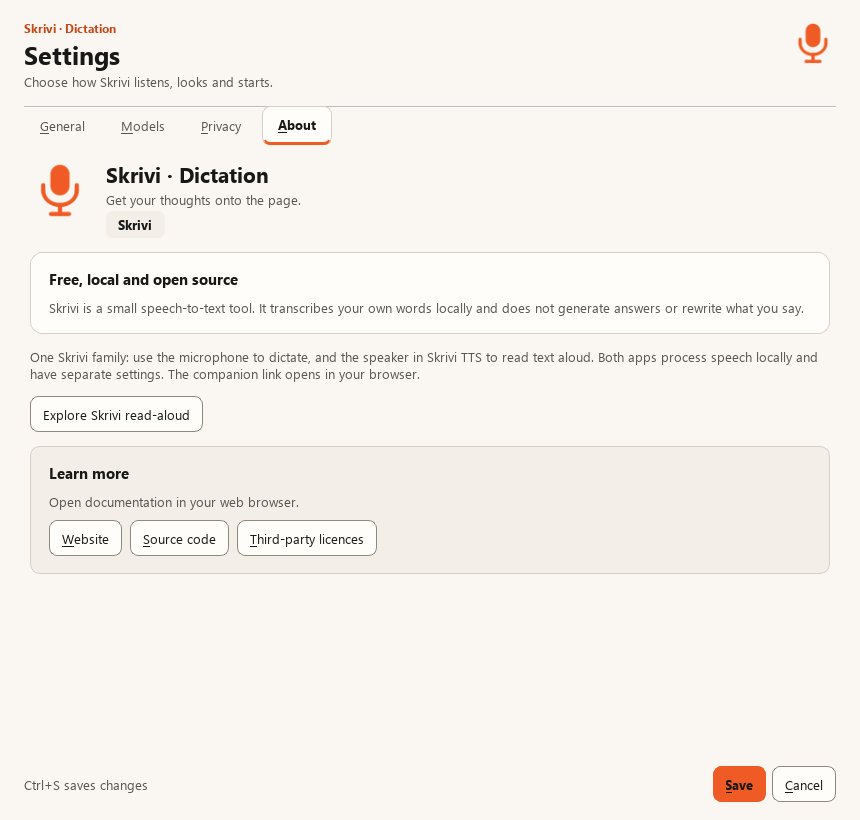
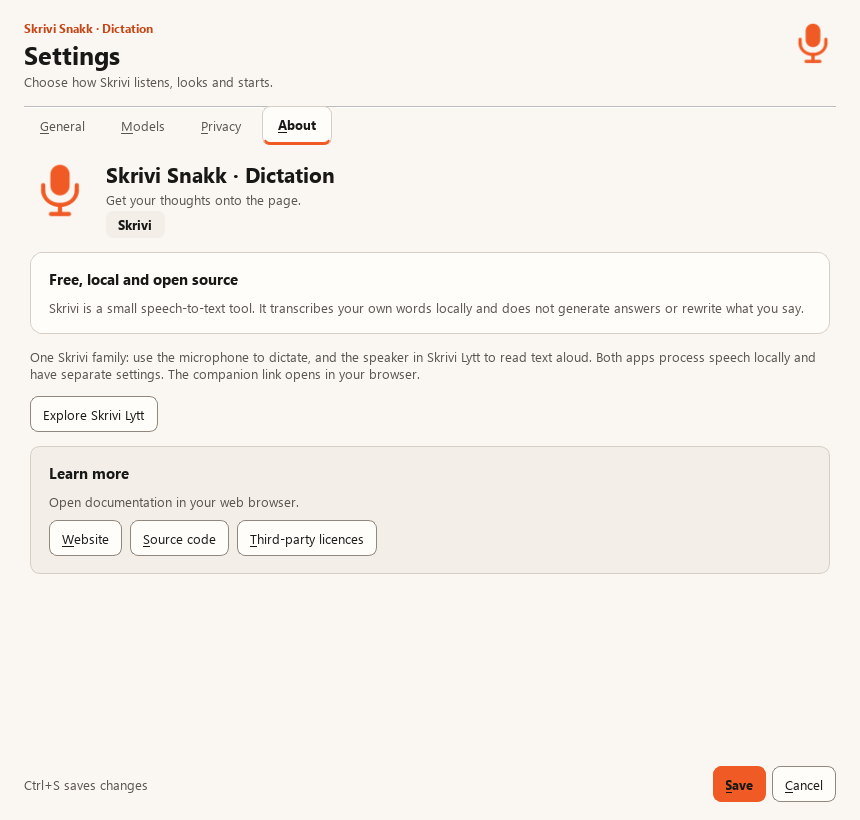
Use current Snakk and Lytt family names

diff --git a/website/dictation/index.html b/website/dictation/index.html
@@ -27,7 +27,7 @@
       <div class="eyebrow" data-nb="Skrivi Snakk · tale-til-tekst" data-en="Skrivi Snakk · speech-to-text">Skrivi Snakk · tale-til-tekst</div>
       <h1 data-nb="Få tankene ned på siden." data-en="Get your thoughts onto the page.">Få tankene ned på siden.</h1>
       <p class="hero-copy" data-nb="Nøyaktig, lokal tale-til-tekst. Gratis for alle." data-en="Accurate, local speech-to-text. Free for everyone.">Nøyaktig, lokal tale-til-tekst. Gratis for alle.</p>
-      <p class="product-note" data-nb="Mikrofonen for å skrive, høyttaleren for å lytte. Bruk høyre Ctrl eller venstre Ctrl + Windows til diktering når du også bruker Skrivi Opplesing." data-en="The microphone for writing, the speaker for listening. Use Right Ctrl or Left Ctrl + Windows for dictation when also using Skrivi Read aloud.">Mikrofonen for å skrive, høyttaleren for å lytte. Bruk høyre Ctrl eller venstre Ctrl + Windows til diktering når du også bruker Skrivi Opplesing.</p>
+      <p class="product-note" data-nb="Mikrofonen for å skrive, høyttaleren for å lytte. Bruk høyre Ctrl eller venstre Ctrl + Windows til diktering når du også bruker Skrivi Lytt." data-en="The microphone for writing, the speaker for listening. Use Right Ctrl or Left Ctrl + Windows for dictation when also using Skrivi Lytt.">Mikrofonen for å skrive, høyttaleren for å lytte. Bruk høyre Ctrl eller venstre Ctrl + Windows til diktering når du også bruker Skrivi Lytt.</p>
       <div class="hero-actions">
         <a class="button button-primary" href="https://apps.microsoft.com/detail/9P42NBXD8W36?cid=skrivi-website-dictation" data-nb="Installer Snakk fra Microsoft Store" data-en="Get Snakk from Microsoft Store">Installer Snakk fra Microsoft Store</a>
         <a class="button button-secondary" href="https://github.com/workavoidance/Skrivi-STT/releases/download/v0.2.0-alpha.4/Skrivi-v0.2.0-alpha.4-windows-x64-setup.exe" data-nb="Last ned Snakk for Windows" data-en="Download Snakk for Windows">Last ned Snakk for Windows</a>

diff --git a/src/whisper_dictate/settings_window.py b/src/whisper_dictate/settings_window.py
@@ -76,12 +76,12 @@ PRIVACY_URL_NB = (
 COMPANION_URL = "https://github.com/workavoidance/Skrivi-TTS"
 COMPANION_TEXT = (
     "One Skrivi family: use the microphone to dictate, and the speaker in "
-    "Skrivi TTS to read text aloud. Both apps process speech locally and have "
+    "Skrivi Lytt to read text aloud. Both apps process speech locally and have "
     "separate settings. The companion link opens in your browser."
 )
 HOTKEY_GUIDANCE = (
     "Hold Right Ctrl to dictate, or choose Left Ctrl + Windows on a laptop. "
-    "Skrivi TTS uses Ctrl + Alt + Space to read selected text. Avoid Left Ctrl "
+    "Skrivi Lytt uses Ctrl + Alt + Space to read selected text. Avoid Left Ctrl "
     "+ Left Alt for dictation when using the reader: it overlaps its shortcut. "
     "F6 through F12 can conflict with shortcuts in other apps."
 )
@@ -347,7 +347,9 @@ class SettingsWindow(QDialog):
         self._settings_warning: str | None = None
         self._status_state = "starting"
         self._selected_hotkey = DEFAULT_HOTKEY
-        self.setWindowTitle(tr("{title} Settings", title=f"Skrivi · {tr('Dictation')}"))
+        self.setWindowTitle(
+            tr("{title} Settings", title=f"Skrivi Snakk · {tr('Dictation')}")
+        )
         self.setWindowModality(Qt.WindowModality.NonModal)
         self.setMinimumSize(640, 520)
         self.resize(760, 680)
@@ -364,7 +366,9 @@ class SettingsWindow(QDialog):
         header.setSpacing(16)
         header_copy = QVBoxLayout()
         header_copy.setSpacing(2)
-        self._product_name = _text_label(tr("Skrivi · Dictation"), self, role="eyebrow")
+        self._product_name = _text_label(
+            tr("Skrivi Snakk · Dictation"), self, role="eyebrow"
+        )
         header_copy.addWidget(self._product_name)
         self._heading = _text_label(tr("Settings"), self, role="windowTitle")
         self._heading.setAccessibleName(tr("Skrivi settings heading"))
@@ -753,7 +757,7 @@ class SettingsWindow(QDialog):
         about_copy = QVBoxLayout()
         about_copy.setSpacing(3)
         self._about_title = _text_label(
-            tr("Skrivi · Dictation"), page, role="pageTitle"
+            tr("Skrivi Snakk · Dictation"), page, role="pageTitle"
         )
         about_copy.addWidget(self._about_title)
         self._about_tagline = _text_label(
@@ -788,7 +792,7 @@ class SettingsWindow(QDialog):
 
         self._companion = _text_label(tr(COMPANION_TEXT), page, role="secondary")
         layout.addWidget(self._companion)
-        self.companion_button = QPushButton(tr("Explore Skrivi read-aloud"), page)
+        self.companion_button = QPushButton(tr("Explore Skrivi Lytt"), page)
         self.companion_button.clicked.connect(
             lambda: QDesktopServices.openUrl(QUrl(COMPANION_URL))
         )
@@ -896,7 +900,9 @@ class SettingsWindow(QDialog):
         )
 
     def retranslate_ui(self) -> None:
-        self.setWindowTitle(tr("{title} Settings", title=f"Skrivi · {tr('Dictation')}"))
+        self.setWindowTitle(
+            tr("{title} Settings", title=f"Skrivi Snakk · {tr('Dictation')}")
+        )
         self.setAccessibleName(tr("Skrivi settings"))
         self.setAccessibleDescription(
             tr("Configure Skrivi and review its local privacy behaviour.")
@@ -1004,8 +1010,8 @@ class SettingsWindow(QDialog):
         self.privacy_details_button.setText(f"&{tr('Read full privacy details')}")
         self.privacy_details_button.setAccessibleName(tr("Open privacy documentation"))
 
-        self._product_name.setText(tr("Skrivi · Dictation"))
-        self._about_title.setText(tr("Skrivi · Dictation"))
+        self._product_name.setText(tr("Skrivi Snakk · Dictation"))
+        self._about_title.setText(tr("Skrivi Snakk · Dictation"))
         self._about_icon.setAccessibleName(tr("Skrivi logo"))
         self._about_tagline.setText(tr("Get your thoughts onto the page."))
         self._about_version.setAccessibleName(tr("Skrivi version"))
@@ -1018,7 +1024,7 @@ class SettingsWindow(QDialog):
         )
         self._about.setAccessibleName(tr("About Skrivi"))
         self._companion.setText(tr(COMPANION_TEXT))
-        self.companion_button.setText(tr("Explore Skrivi read-aloud"))
+        self.companion_button.setText(tr("Explore Skrivi Lytt"))
         self._links_title.setText(tr("Learn more"))
         self._links_description.setText(tr("Open documentation in your web browser."))
         self.website_button.setText(f"&{tr('Website')}")

diff --git a/tests/test_ui.py b/tests/test_ui.py
@@ -311,7 +311,7 @@ def test_settings_actions_are_named_and_keyboard_operable(tmp_path: Path) -> Non
     assert window.model_panel.accessibleName() == "Local speech models"
     assert window.model_panel.model_combo.accessibleName() == "Speech model"
     assert window.model_panel.download_button.isEnabled() is False
-    assert window.windowTitle() == "Skrivi · Dictation Settings"
+    assert window.windowTitle() == "Skrivi Snakk · Dictation Settings"
     assert window.minimumWidth() <= 640
     assert window.minimumHeight() <= 520
     assert window.overlay_checkbox.focusPolicy() & Qt.FocusPolicy.TabFocus
@@ -492,7 +492,7 @@ def test_norwegian_interface_covers_settings_models_tray_and_overlay(
         indicator.post("transcribing")
         process_events_until(lambda: bool(statuses))
 
-        assert window.windowTitle() == "Innstillinger for Skrivi · Diktering"
+        assert window.windowTitle() == "Innstillinger for Skrivi Snakk · Diktering"
         assert window.accessibleName() == "Skrivi-innstillinger"
         assert [window.tabs.tabText(index).replace("&", "") for index in range(4)] == [
             "Generelt",
@@ -539,7 +539,7 @@ def test_interface_language_previews_live_cancel_restores_and_save_persists(
     )
     window.interface_language_combo.setCurrentIndex(norwegian_index)
 
-    assert window.windowTitle() == "Innstillinger for Skrivi · Diktering"
+    assert window.windowTitle() == "Innstillinger for Skrivi Snakk · Diktering"
     assert window._status.text() == "Klar. Hold Høyre Ctrl for å diktere"
     assert window.model_panel.download_button.text().replace("&", "") == (
         "Last ned modell"
@@ -549,7 +549,7 @@ def test_interface_language_previews_live_cancel_restores_and_save_persists(
 
     window.reject()
 
-    assert window.windowTitle() == "Skrivi · Dictation Settings"
+    assert window.windowTitle() == "Skrivi Snakk · Dictation Settings"
     assert window._status.text() == "Ready. Hold Right Ctrl to dictate"
     assert window.model_panel.download_button.text().replace("&", "") == (
         "Download model"
@@ -564,7 +564,7 @@ def test_interface_language_previews_live_cancel_restores_and_save_persists(
     assert (
         store.load().settings.interface_language is InterfaceLanguage.NORWEGIAN_BOKMAL
     )
-    assert window.windowTitle() == "Innstillinger for Skrivi · Diktering"
+    assert window.windowTitle() == "Innstillinger for Skrivi Snakk · Diktering"
     set_interface_language(InterfaceLanguage.ENGLISH)
 
 
@@ -611,8 +611,8 @@ def test_ecosystem_labels_translate_and_companion_link_is_explicit(
     window.companion_button.click()
     assert opened == [COMPANION_URL]
     set_interface_language(InterfaceLanguage.NORWEGIAN_BOKMAL)
-    assert window._product_name.text() == "Skrivi · Diktering"
-    assert window._about_title.text() == "Skrivi · Diktering"
+    assert window._product_name.text() == "Skrivi Snakk · Diktering"
+    assert window._about_title.text() == "Skrivi Snakk · Diktering"
     assert "Diktering" in tray._title_action.text()
     assert "DEV test" in tray._icon.toolTip()
     assert "Unngå venstre Ctrl" in window._hotkey_help.text()

diff --git a/src/whisper_dictate/i18n.py b/src/whisper_dictate/i18n.py
@@ -18,10 +18,10 @@ class InterfaceLanguage(StrEnum):
 
 
 NORWEGIAN_BOKMAL = {
-    "Skrivi · Dictation": "Skrivi · Diktering",
-    "Explore Skrivi read-aloud": "Utforsk Skrivi høytlesing",
-    "One Skrivi family: use the microphone to dictate, and the speaker in Skrivi TTS to read text aloud. Both apps process speech locally and have separate settings. The companion link opens in your browser.": "Én Skrivi-familie: Bruk mikrofonen til å diktere og høyttaleren i Skrivi TTS til å lese tekst høyt. Begge appene behandler tale lokalt og har egne innstillinger. Lenken til den andre appen åpnes i nettleseren.",
-    "Hold Right Ctrl to dictate, or choose Left Ctrl + Windows on a laptop. Skrivi TTS uses Ctrl + Alt + Space to read selected text. Avoid Left Ctrl + Left Alt for dictation when using the reader: it overlaps its shortcut. F6 through F12 can conflict with shortcuts in other apps.": "Hold høyre Ctrl for å diktere, eller velg venstre Ctrl + Windows på en bærbar PC. Skrivi TTS bruker Ctrl + Alt + mellomrom for å lese valgt tekst. Unngå venstre Ctrl + venstre Alt for diktering når du bruker høytlesing: Snarveiene overlapper. F6 til F12 kan komme i konflikt med snarveier i andre apper.",
+    "Skrivi Snakk · Dictation": "Skrivi Snakk · Diktering",
+    "Explore Skrivi Lytt": "Utforsk Skrivi Lytt",
+    "One Skrivi family: use the microphone to dictate, and the speaker in Skrivi Lytt to read text aloud. Both apps process speech locally and have separate settings. The companion link opens in your browser.": "Én Skrivi-familie: Bruk mikrofonen til å diktere og høyttaleren i Skrivi Lytt til å lese tekst høyt. Begge appene behandler tale lokalt og har egne innstillinger. Lenken til den andre appen åpnes i nettleseren.",
+    "Hold Right Ctrl to dictate, or choose Left Ctrl + Windows on a laptop. Skrivi Lytt uses Ctrl + Alt + Space to read selected text. Avoid Left Ctrl + Left Alt for dictation when using the reader: it overlaps its shortcut. F6 through F12 can conflict with shortcuts in other apps.": "Hold høyre Ctrl for å diktere, eller velg venstre Ctrl + Windows på en bærbar PC. Skrivi Lytt bruker Ctrl + Alt + mellomrom for å lese valgt tekst. Unngå venstre Ctrl + venstre Alt for diktering når du bruker høytlesing: Snarveiene overlapper. F6 til F12 kan komme i konflikt med snarveier i andre apper.",
     "Automatic (Windows display language)": "Automatisk (Windows-språk)",
     # Language choices identify themselves in every interface language.
     "English": "English",

diff --git a/src/whisper_dictate/tray.py b/src/whisper_dictate/tray.py
@@ -109,7 +109,7 @@ class TrayIcon:
         add_interface_language_listener(self.retranslate_ui)
 
     def _display_title(self) -> str:
-        return f"{self._title} · {tr('Dictation')}"
+        return f"{self._title} Snakk · {tr('Dictation')}"
 
     @property
     def menu(self) -> QMenu:

diff --git a/tests/test_store_package.py b/tests/test_store_package.py
@@ -57,7 +57,7 @@ def test_store_manifest_declares_opt_in_startup_task() -> None:
     assert startup_task.attrib == {
         "TaskId": "SkriviStartup",
         "Enabled": "false",
-        "DisplayName": "Skrivi Dictation",
+        "DisplayName": "Skrivi Snakk",
     }
 
 

diff --git a/docs/ECOSYSTEM_REVIEW.md b/docs/ECOSYSTEM_REVIEW.md
@@ -15,7 +15,7 @@ retain that shared layout, spacing, typography and accessible Windows behaviour.
   live. Tray titles retain development build identifiers.
 - About explains the two apps and offers a user-activated companion link.
 - Settings, README and the dictation product page explain using both apps.
-- Windows shortcut and app display names identify Skrivi Dictation. The installer
+- Windows shortcut and app display names identify Skrivi Snakk. The installer
   removes the old app shortcuts when replacing them. AppId, package identity,
   startup IDs, executable, installation directory and data paths remain stable.
 - No microphone, transcription, model or saved-shortcut behaviour changes.
@@ -28,7 +28,7 @@ do not inspect each other's saved configuration or automatically resolve it.
 
 ## Evidence and remaining checks
 
-203 automated tests passed on Windows/Python 3.14, including live translation,
+204 automated tests passed on Windows/Python 3.14, including live translation,
 explicit companion-link activation, icon sizes, model/settings preservation,
 installer identity and existing hotkey behaviour. Ruff formatting/lint and
 module compilation passed. Qt renders were reviewed in English and Bokmål.

diff --git a/docs/BRAND_GUIDELINES.md b/docs/BRAND_GUIDELINES.md
@@ -10,9 +10,9 @@ for the umbrella brand. Product icons describe the action: an orange microphone
 for dictation and an orange speaker for read-aloud, using #F05A24, rounded ends,
 transparent backgrounds and a comparable visual weight.
 
-Use “Skrivi · Dictation” / “Skrivi · Diktering” in the dictation interface.
-Windows installation labels use “Skrivi Dictation”; persistent IDs, paths and
-Skrivi.exe stay stable for upgrades. The companion is Skrivi TTS / read-aloud.
+Use “Skrivi Snakk · Dictation” / “Skrivi Snakk · Diktering” in the dictation interface.
+Windows installation labels use “Skrivi Snakk”; persistent IDs, paths and
+Skrivi.exe stay stable for upgrades. The companion is Skrivi Lytt / read-aloud (repository: Skrivi-TTS).
 Keep the shared warm surfaces, rounded cards, spacing, typography and orange
 accents already used by both apps. Windows accessibility colours take precedence.
 Recording and playback must have text labels, not colour-only meanings.

diff --git a/docs/DEVELOPMENT_PLAN.md b/docs/DEVELOPMENT_PLAN.md
@@ -210,7 +210,7 @@ its warm surfaces, rounded controls and orange palette from STT. Installation
 and data identities stay unchanged. Shortcut guidance recommends Right Ctrl or
 Left Ctrl + Windows to avoid overlap with the reader's Ctrl + Alt + Space.
 
-Verification: 203 automated tests passed locally on Windows with Python 3.14;
+Verification: 204 automated tests passed locally on Windows with Python 3.14;
 formatting, lint and compilation passed. English and Norwegian settings/About
 renders were inspected. See [ecosystem review](ECOSYSTEM_REVIEW.md) for scope,
 screenshots and remaining packaged-installation/accessibility checks.

diff --git a/README.md b/README.md
@@ -1,7 +1,7 @@
-# Skrivi · Dictation
+# Skrivi Snakk · Dictation
 
 The microphone in the Skrivi family: speak to write with this app, or use
-[**Skrivi TTS · Read aloud**](https://github.com/workavoidance/Skrivi-TTS)
+[**Skrivi Lytt · Read aloud**](https://github.com/workavoidance/Skrivi-TTS)
 to listen to text. The apps share an orange visual identity and work independently.
 
 When using both, keep **Right Ctrl** or **Left Ctrl + Windows** for dictation.

diff --git a/CHANGELOG.md b/CHANGELOG.md
@@ -13,7 +13,7 @@ here before a release.
   Norwegian labels, companion-app guidance and a read-aloud link in About.
 - Clarify shortcuts for running dictation and read-aloud together. Keep existing
   settings, model locations, executable name and installation identity.
-- Label Windows shortcuts and app listings Skrivi Dictation.
+- Label Windows shortcuts and app listings Skrivi Snakk.
 
 ## [0.2.0-alpha.4] - 2026-09-04
 
